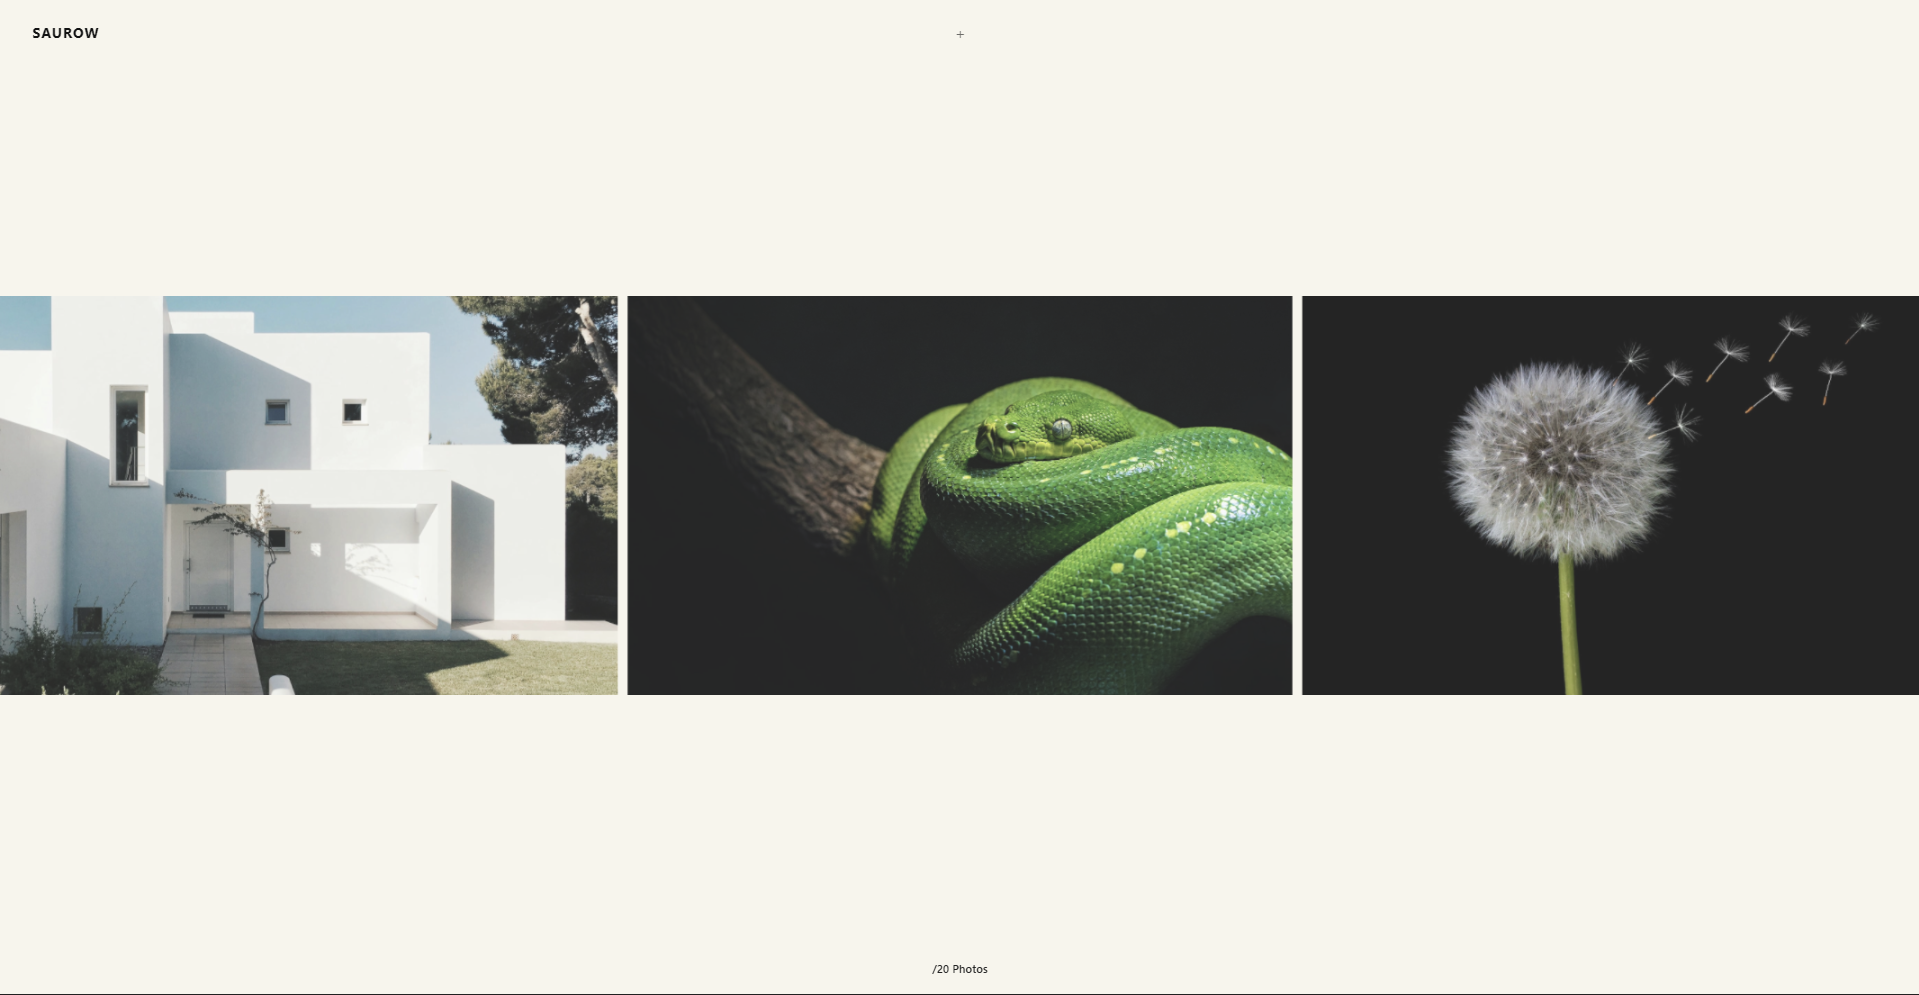
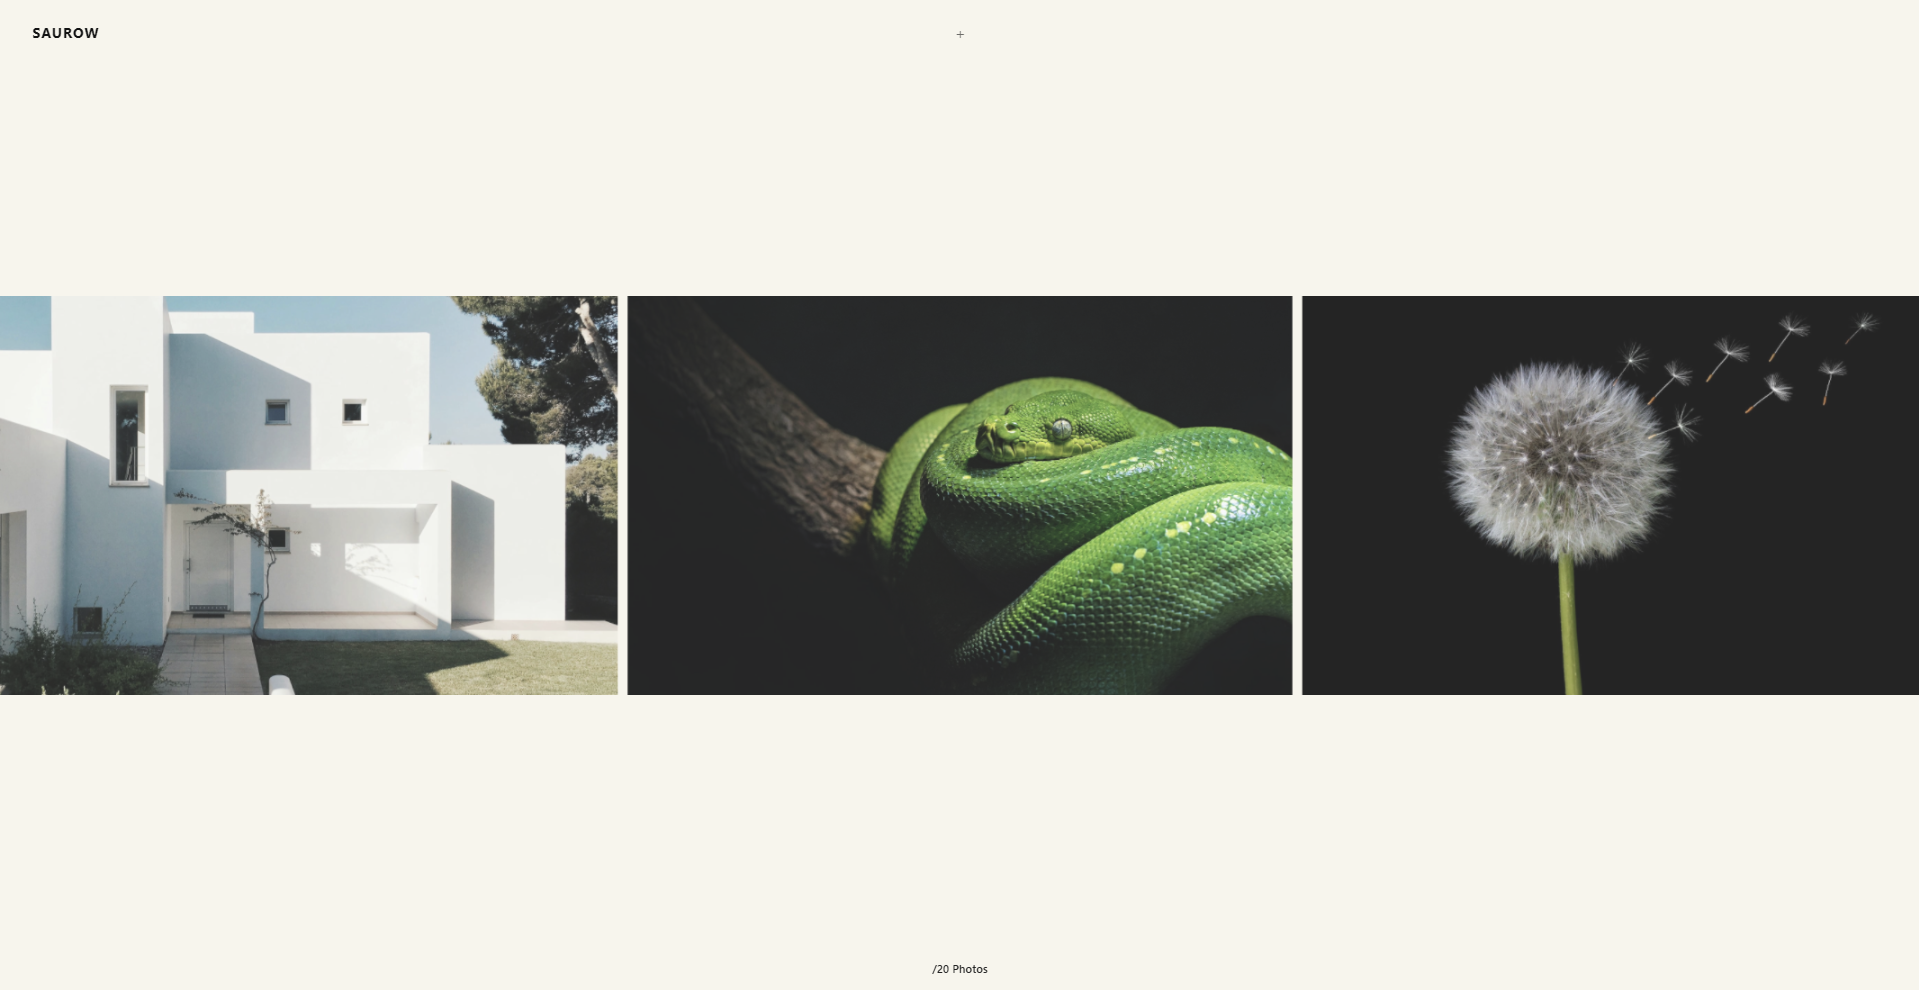
feat: add articles data module and image assets

diff --git a/src/lib/articles.ts b/src/lib/articles.ts
@@ -60,7 +60,7 @@ export const ARTICLES: Article[] = [
     readTime: "7 min read",
     status: "Breakdown",
     isPublished: true,
-    image: "/images/fold.png",
+    image: "/images/fold/fold.png",
     imageAlt: "Saurow portfolio 3D interactive mesh card folding and TSL deformation",
     tags: ["Three.js", "TSL", "WebGPU", "React Three Fiber", "GSAP"],
     icon: "❖",
